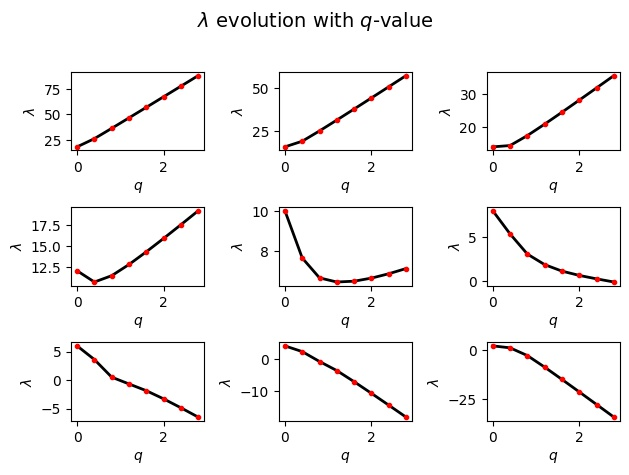
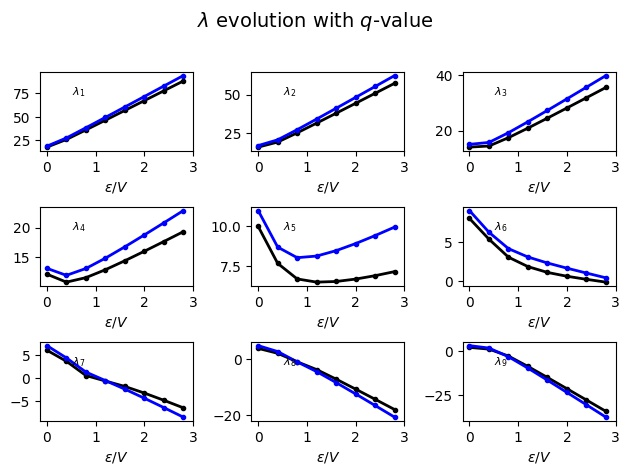
the csv reader now adds odd lambdas to the data container. the grid plot takes odd lambdas into a second plot line

diff --git a/Code/Python/GridPlot.py b/Code/Python/GridPlot.py
@@ -21,40 +21,48 @@ def CreateGridPlot(n, data):
     # x = give_array(array_dim, rd.choice(params))[0]
 
     fig, ax = plt.subplots(n, n)
-    fig.suptitle(f'$\lambda$ evolution with $q$-value', fontsize=14)
+    fig.suptitle(f'$\lambda$ evolution with $\epsilon/v$', fontsize=14)
 
     count = 0
     for i in range(n):
         for j in range(n):
             y = data[1][count]
+            y_odd = data[2][count]
+            # print(y_odd)
             # y = give_array(array_dim, rd.choice(params))[1]
             p = round(np.mean(y), 3)
-            ax[i, j].plot(x, y, '-k',linewidth=2)
+            ax[i, j].plot(x, y, '-r', linewidth=2)
             ax[i, j].plot(x, y, 'or', markersize=3)
-            # ax[i, j].text(0.25, 0.75, f'$\mu$={p}', horizontalalignment='center',
-            #               verticalalignment='center', transform=ax[i, j].transAxes, fontsize=8)
+            ax[i, j].plot(x, y_odd, '-b', linewidth=2)
+            ax[i, j].plot(x, y_odd, 'ob', markersize=3)
+            ax[i, j].text(0.25, 0.75, f'$\lambda_{count+1}$', horizontalalignment='center',
+                          verticalalignment='center', transform=ax[i, j].transAxes, fontsize=8)
             # ax[i, j].set_title(f'$\lambda{(i+1,j+1)}$')
             count = count+1
     for ax_id in ax.flat:
-        ax_id.set(xlabel=f'$q$', ylabel=f'$\lambda$')
+        # ax_id.set(xlabel=f'$q$', ylabel=f'$\lambda$')
+        ax_id.set(xlabel=f'$\epsilon/V$')
+        # xx=ax_id.get_yticks()
+        # print(xx)
+        ax_id.set_xticks(np.arange(0, 3.1, step=1))
+        # xticks(np.arange(0, 1, step=0.2))
 
-    # y = give_array(5, rd.choice(params))[1]
-    # ax[0, 1].plot(x, y, '-k')
-    # ax[0, 1].plot(x, y, 'or')
-    # ax[0, 1].text(0.15, 0.75, 'N', horizontalalignment='center',
-    #               verticalalignment='center', transform=ax[0,1].transAxes)
-    # ax[0, 1].set_title(f'$\lambda_{n}$')
+        # y = give_array(5, rd.choice(params))[1]
+        # ax[0, 1].plot(x, y, '-k')
+        # ax[0, 1].plot(x, y, 'or')
+        # ax[0, 1].text(0.15, 0.75, 'N', horizontalalignment='center',
+        #               verticalalignment='center', transform=ax[0,1].transAxes)
+        # ax[0, 1].set_title(f'$\lambda_{n}$')
 
-    # # Fine-tune figure; hide x ticks for top plots and y ticks for right plots
-    # plt.setp([a.get_xticklabels() for a in ax[0, :]], visible=False)
-    # plt.setp([a.get_yticklabels() for a in ax[:, 1]], visible=False)
+        # # Fine-tune figure; hide x ticks for top plots and y ticks for right plots
+        # plt.setp([a.get_xticklabels() for a in ax[0, :]], visible=False)
+        # plt.setp([a.get_yticklabels() for a in ax[:, 1]], visible=False)
 
-
-# Tight layout often produces nice results
-# but requires the title to be spaced accordingly
+        # Tight layout often produces nice results
+        # but requires the title to be spaced accordingly
     fig.tight_layout()
     fig.subplots_adjust(top=0.85)
-    plt.savefig('../../Reports/grid_plot.jpeg', bbox_inches='tight')
+    plt.savefig('../../Reports/grid_plot.pdf', bbox_inches='tight')
 
     # plt.show()
 

diff --git a/Code/Python/CSV_Reader.py b/Code/Python/CSV_Reader.py
@@ -20,7 +20,10 @@ filenames = GenerateFileNames(10, 'Lambda-idx')
 
 def ReadFile(filenames, n):
     qvalues = []
+    # store the even values for lambda
     lambdas = []
+    # store the odd values for lambda
+    odd_lambdas = []
 
     # first create q-array
     # this can be done in a single loop, since the values of the q-parameter are the same across each file.
@@ -33,13 +36,16 @@ def ReadFile(filenames, n):
     # array of arrays, where each sub-array contains all the values of lambda_id, evaluated at certain q
     count = 0
     for filename in filenames:
-        lamda_local = []
+        lambda_local = []
+        odd_lambda_local = []
         with open(filename) as csv_file:
             csv_reader = csv.reader(csv_file, delimiter=',')
             for row in csv_reader:
-                lamda_local.append(round(float(row[1]), 3))
+                lambda_local.append(round(float(row[1]), 3))
+                odd_lambda_local.append(round(float(row[2]), 3))
                 # lamda_local.append(qvalues[count])
-        lambdas.append(lamda_local)
+        lambdas.append(lambda_local)
+        odd_lambdas.append(odd_lambda_local)
         count = count+1
 
     # # solutions container before trimming
@@ -51,8 +57,11 @@ def ReadFile(filenames, n):
     # data trimming
     lambdas = lambdas[:n]
 
+    odd_lambdas = odd_lambdas[:n]
+
+    # print(len(lambdas), len(odd_lambdas))
     # generate the container for storing each solution of the Boson Hamiltonian
-    data = [qvalues, lambdas]
+    data = [qvalues, lambdas, odd_lambdas]
 
     # create a data sampling, storing less values in a reduced size container
     sampled_data = []
@@ -60,11 +69,14 @@ def ReadFile(filenames, n):
     cutting_factor = 4
     sampled_q = qvalues[::cutting_factor]
     sampled_lambdas = []
+    sampled_odd_lambdas = []
     for id_x in range(len(lambdas)):
         sampled_lambdas.append(lambdas[id_x][::cutting_factor])
-    # return [len(sampled_q), len(sampled_lambdas[0])]
+        sampled_odd_lambdas.append(odd_lambdas[id_x][::cutting_factor])
 
-    sampled_data = [sampled_q, sampled_lambdas]
+        # return [len(sampled_q), len(sampled_lambdas[0])]
+
+    sampled_data = [sampled_q, sampled_lambdas, sampled_odd_lambdas]
     return sampled_data
 
 
